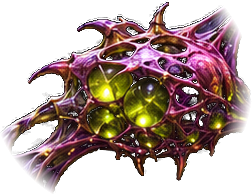
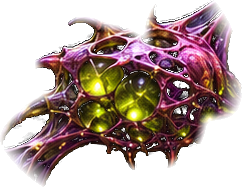
Enjambre: estructuras iniciales sin restos de conexiones y fondo tejido más denso
Las 21 formas iniciales venían recortadas de la red con muñones de filamentos: se
conserva solo el cuerpo (apertura morfológica adaptativa + componente principal).
Las mutaciones se dejan intactas. Fondo con más piezas y más presencia.

Claude-Session: https://claude.ai/code/session_01F2cMaVP1jXDcnxjASp53K6

diff --git a/enjambre/index.html b/enjambre/index.html
@@ -1623,7 +1623,7 @@ function mqKit(){ const X=v=>(100*v/MQ.W).toFixed(3)+'%', Y=v=>(100*v/MQ.H).toFi
   return h; }
 
 // estructuras de cada tema en sus tres fases (maqueta2/fases/<id>-<1|2|3>.webp, sin pérdida): ancho y alto nativos
-const MQF={"cin":[[293,283],[431,225],[528,278]],"vrel":[[170,153],[403,234],[494,249]],"din":[[263,241],[349,249],[506,264]],"mcirc":[[272,268],[314,263],[442,301]],"osc":[[317,259],[327,215],[493,290]],"flu":[[329,280],[326,199],[521,293]],"cal":[[252,194],[323,232],[527,318]],"ter1":[[287,269],[333,224],[495,251]],"tmp":[[283,275],[323,261],[473,274]],"ter2":[[292,231],[331,250],[467,268]],"circ":[[229,259],[352,233],[494,280]],"elec":[[214,201],[324,275],[518,333]],"ene":[[253,249],[318,228],[517,289]],"mom":[[253,253],[320,223],[493,273]],"equi":[[278,216],[348,196],[520,268]],"rot":[[305,236],[321,249],[504,308]],"gauss":[[254,221],[333,256],[454,295]],"mag":[[216,218],[333,235],[452,270]],"grav":[[264,297],[316,243],[485,283]],"ato":[[213,186],[321,253],[413,278]],"vcom":[[1260,918],[1186,1058],[1219,1200]]};
+const MQF={"cin":[[274,188],[431,225],[528,278]],"vrel":[[169,148],[403,234],[494,249]],"din":[[207,178],[349,249],[506,264]],"mcirc":[[243,198],[314,263],[442,301]],"osc":[[227,145],[327,215],[493,290]],"flu":[[305,233],[326,199],[521,293]],"cal":[[242,187],[323,232],[527,318]],"ter1":[[222,257],[333,224],[495,251]],"tmp":[[254,156],[323,261],[473,274]],"ter2":[[244,146],[331,250],[467,268]],"circ":[[205,231],[352,233],[494,280]],"elec":[[183,126],[324,275],[518,333]],"ene":[[247,164],[318,228],[517,289]],"mom":[[140,169],[320,223],[493,273]],"equi":[[263,137],[348,196],[520,268]],"rot":[[282,192],[321,249],[504,308]],"gauss":[[232,172],[333,256],[454,295]],"mag":[[178,139],[333,235],[452,270]],"grav":[[223,168],[316,243],[485,283]],"ato":[[183,121],[321,253],[413,278]],"vcom":[[1013,830],[1186,1058],[1219,1200]]};
 const MQF_ANCHO=[0,1.3,1.45]; // las mutaciones son anchas: se miden por su ancho (veces el de la célula) para no tapar a sus vecinas
 function mqFase(id){ const q=/[?&]fase=([123])/.exec(location.search); if(q) return +q[1];
   const all=DB.exercises.filter(e=>e.topics.includes(id)); if(!all.length) return 1;
